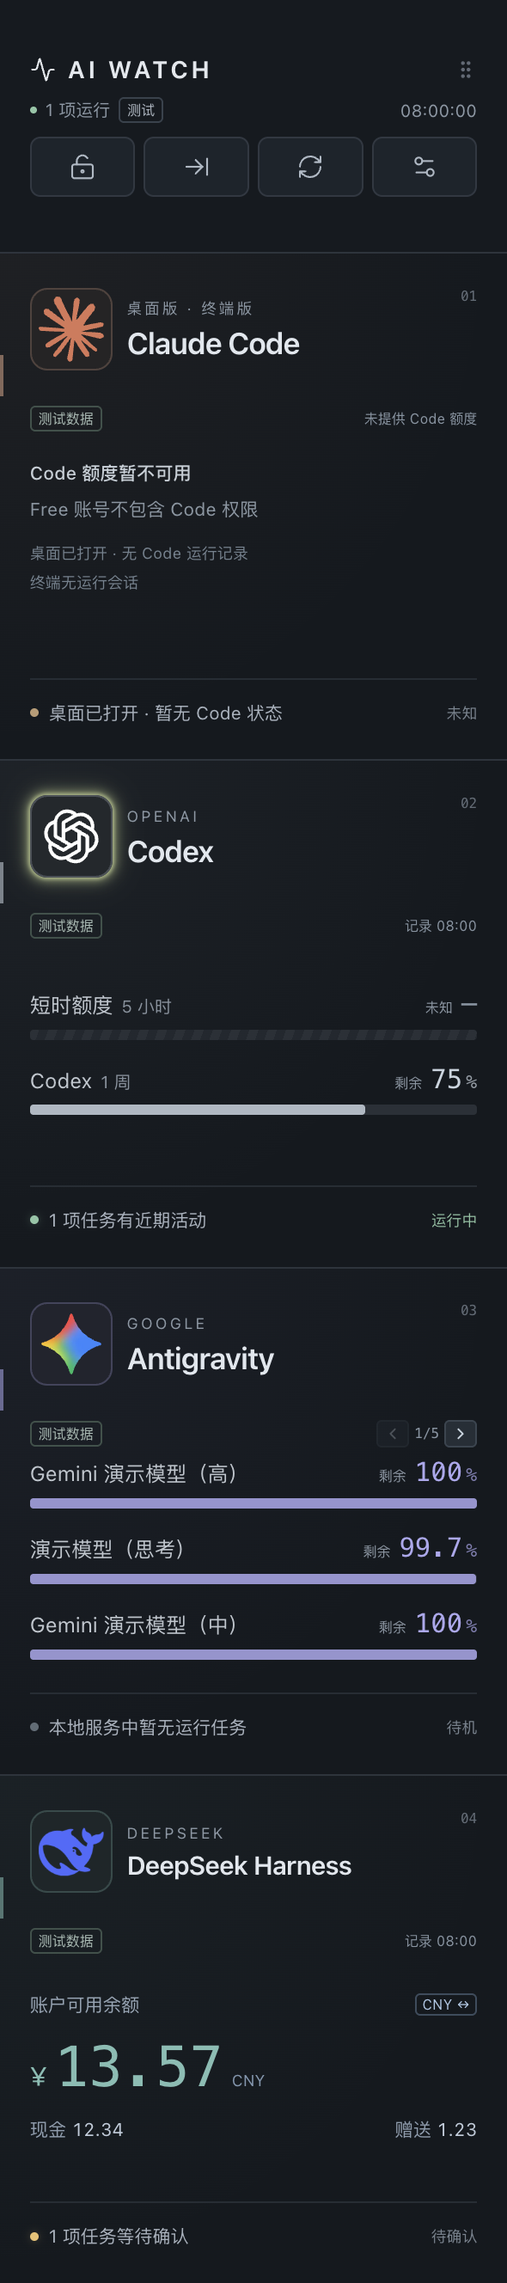
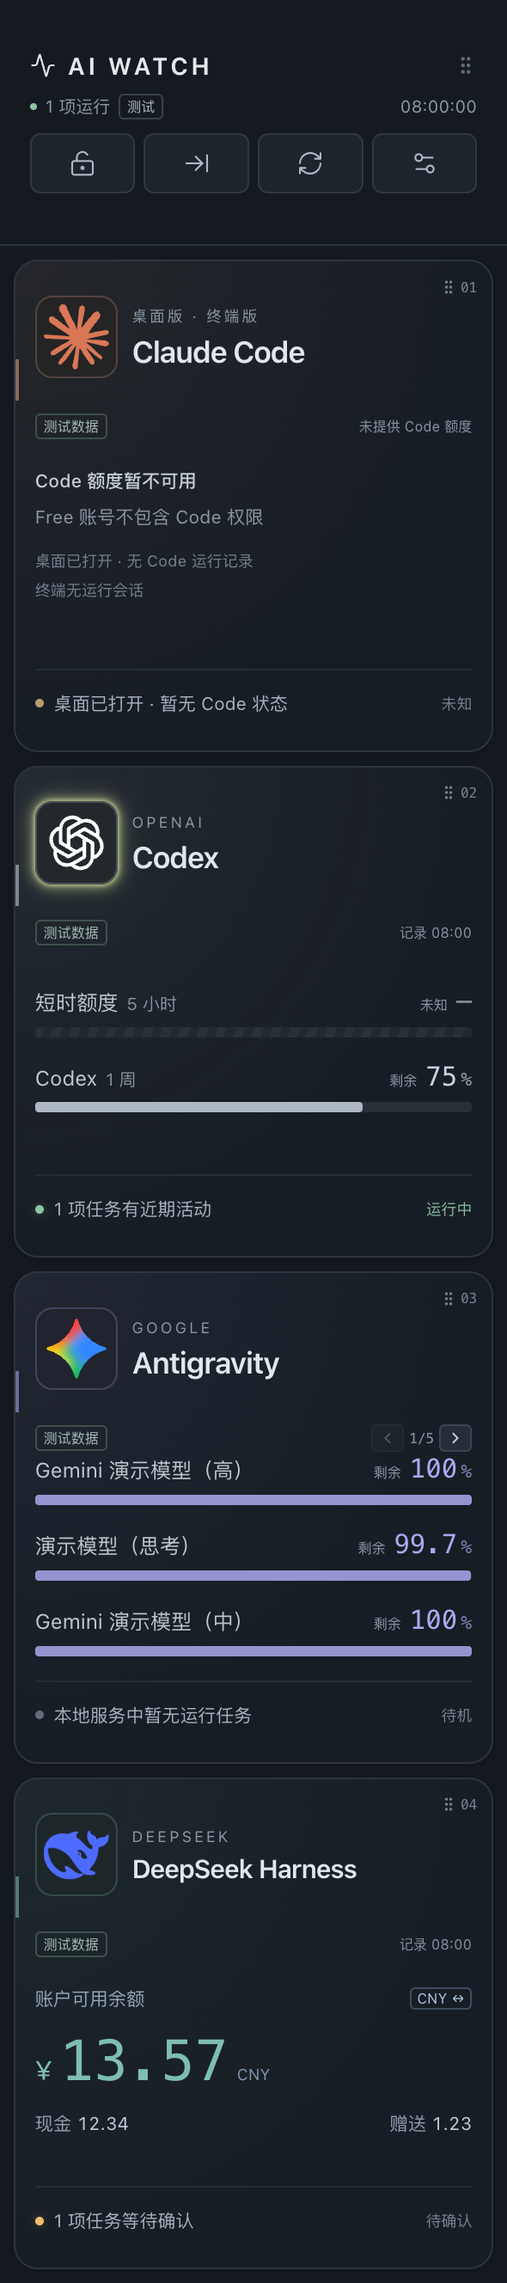
feat: add rounded cards and persistent long-press sorting

diff --git a/src/App.tsx b/src/App.tsx
@@ -1,7 +1,8 @@
-import { useEffect, useMemo, useRef, useState, type CSSProperties } from 'react';
+import { useEffect, useMemo, useRef, useState, type CSSProperties, type HTMLAttributes } from 'react';
 import { Activity, ArrowLeftToLine, ArrowRightToLine, Check, ChevronLeft, ChevronRight, GripVertical, LockKeyhole, MapPin, RefreshCw, Settings2, UnlockKeyhole, X } from 'lucide-react';
 import { providers } from './data';
 import { TestControls } from './TestControls';
+import { useCardSort } from './useCardSort';
 import { applyTestPreset, defaultTestConfig, makeTestStatus, type TestSelection } from './test-mode';
 import Big from 'big.js';
 import type { LocalStatus, LocalProviderStatus, PanelState, Preferences, Provider, ProviderId, Quota } from './types';
@@ -9,7 +10,15 @@ import type { LocalStatus, LocalProviderStatus, PanelState, Preferences, Provide
 const previewState: PanelState = {
   side: 'right', locked: false, animate: true, collapsed: false,
   desktop: false, platform: 'browser', scaleFactor: window.devicePixelRatio,
+  providerOrder: readOrder(),
 };
+function readOrder(): ProviderId[] {
+  const fallback = providers.map(provider => provider.id);
+  try {
+    const value = JSON.parse(localStorage.getItem('ai-watch:provider-order') || 'null');
+    return Array.isArray(value) && value.length === 4 && new Set(value).size === 4 && value.every(id => fallback.includes(id)) ? value : fallback;
+  } catch { return fallback; }
+}
 function readImages(): Partial<Record<ProviderId, string>> {
   try { return JSON.parse(localStorage.getItem('ai-watch:images') ?? '{}'); }
   catch { return {}; }
@@ -47,7 +56,9 @@ function BalanceCard({ local }: { local: LocalProviderStatus }) {
     </> : <div className="balance-empty"><strong>{local.connection === 'auth-required' ? '等待 Harness 登录' : local.connection === 'ready' ? '暂无钱包记录' : '余额暂不可用'}</strong><p>{local.detail}</p></div>}
   </div>;
 }
-function ProviderCard({ provider, index, image, testing = false }: { provider: Provider; index: number; image?: string; testing?: boolean }) {
+function ProviderCard({ provider, index, image, testing = false, sortProps, dragging = false }: {
+  provider: Provider; index: number; image?: string; testing?: boolean; sortProps?: HTMLAttributes<HTMLElement>; dragging?: boolean;
+}) {
   const [page, setPage] = useState(0);
   const pages = Math.max(1, Math.ceil(provider.quotas.length / 3));
   const currentPage = Math.min(page, pages - 1);
@@ -66,11 +77,12 @@ function ProviderCard({ provider, index, image, testing = false }: { provider: P
     const reset = quota.reset && local ? `重置时间 ${new Date(quota.reset).toLocaleString('zh-CN')}` : quota.reset;
     return `${quota.model} · ${quota.period}${reset ? ` · ${reset}` : ''}${quota.stale ? ` · 已过时，历史剩余 ${quota.remaining ?? '未知'}%` : ''}`;
   }
-  return <section className={`provider-card ${provider.running ? 'is-running' : ''}`} style={{ '--accent': provider.color } as CSSProperties} aria-label={`${provider.name} 面板`} data-attention={local?.id === 'codex' && local.activity === 'waiting'}>
+  return <section {...sortProps} className={`provider-card ${provider.running ? 'is-running' : ''} ${dragging ? 'is-dragging' : ''}`} style={{ '--accent': provider.color, ...sortProps?.style } as CSSProperties}
+    aria-label={`${provider.name} 面板`} data-provider={provider.id} data-attention={local?.id === 'codex' && local.activity === 'waiting'} tabIndex={0} aria-describedby="card-sort-help" onDragStart={event => event.preventDefault()}>
     <div className="card-heading">
       <Avatar provider={provider} image={image} monitor />
       <div className="identity"><span className="eyebrow">{local?.id === 'claude' ? '桌面版 · 终端版' : provider.subtitle}</span><h2>{provider.name}</h2></div>
-      <span className="card-index">0{index + 1}</span>
+      <span className="card-index" title="长按卡片拖动排序"><GripVertical size={10} aria-hidden="true" /><span>0{index + 1}</span></span>
     </div>
     <div className="quota-area">
       <div className="quota-tools">
@@ -109,11 +121,12 @@ export default function App() {
   const [settingsOpen, setSettingsOpen] = useState(false);
   const [refreshing, setRefreshing] = useState(false);
   const [notice, setNotice] = useState('');
+  const [orderSaving, setOrderSaving] = useState(false);
   const [draft, setDraft] = useState<Preferences>(previewState);
   const modal = useRef<HTMLDialogElement>(null);
   const fileInput = useRef<HTMLInputElement>(null);
   const targetImage = useRef<ProviderId>('claude');
-  const visibleProviders = providers.map((provider) => {
+  const visibleProviders = state.providerOrder.map(id => providers.find(provider => provider.id === id)!).map((provider) => {
     if (!state.desktop && !testMode) return provider;
     const local = displayStatus?.[provider.id];
     return { ...provider, running: local?.activity === 'running', task: local?.task || '正在读取本地状态',
@@ -123,6 +136,19 @@ export default function App() {
   });
   const activeTasks = providers.reduce((total, provider) => total + (displayStatus?.[provider.id].activeTasks || 0), 0);
   const refreshTime = displayStatus?.sampledAt ? new Date(displayStatus.sampledAt).toLocaleTimeString('zh-CN', { hour: '2-digit', minute: '2-digit', second: '2-digit' }) : '读取中';
+  const sorting = useCardSort(state.providerOrder, order => { void saveOrder(order); }, settingsOpen || state.collapsed || orderSaving);
+
+  async function saveOrder(order: ProviderId[]) {
+    if (orderSaving) return;
+    const previous = state.providerOrder;
+    setOrderSaving(true); setState(current => ({ ...current, providerOrder: order }));
+    try {
+      if (window.panel) setState(await window.panel.setOrder(order));
+      else localStorage.setItem('ai-watch:provider-order', JSON.stringify(order));
+      setNotice('模块顺序已保存');
+    } catch { setState(current => ({ ...current, providerOrder: previous })); setNotice('顺序保存失败，已恢复原顺序'); }
+    finally { setOrderSaving(false); }
+  }
 
   function openSettings() { setDraft({ side: state.side, locked: state.locked, animate: state.animate }); setSettingsOpen(true); }
   function toggleTestMode(enabled: boolean) {
@@ -240,7 +266,7 @@ export default function App() {
       </div>)}</div>
       <button className={`rail-lock ${state.locked ? 'selected' : ''}`} title="锁定窗口" aria-label="锁定窗口" aria-pressed={state.locked} onClick={toggleLock}>{state.locked ? <LockKeyhole size={15} /> : <UnlockKeyhole size={15} />}</button>
       {testMode ? <button className="rail-demo test-badge" aria-label="测试模式设置" onClick={async () => { await collapse(false); openSettings(); }}>测试</button> : <span className="rail-demo">{state.desktop ? '本地' : '演示'}</span>}
-    </aside> : <div className="panel-regions">
+    </aside> : <div className={`panel-regions ${sorting.sorting ? 'is-sorting' : ''}`}>
       <header className="control-region">
         <div className="brand-line"><div className="brand"><Activity size={15} strokeWidth={1.7} /><h1>AI WATCH</h1></div><GripVertical size={13} className="drag-hint" /></div>
         <div className="overview" title={testMode ? '当前运行数、任务、额度与余额均为手动选择的测试数据。' : '运行数只统计本地接入且有运行证据的任务；未知状态和演示卡片不计入。'}><span><span className={`tiny-dot ${activeTasks ? 'active' : ''}`} />{state.desktop || testMode ? `${activeTasks} 项运行` : '界面预览'} {testMode ? <button className="demo-tag test-badge" aria-label="测试模式设置" onClick={openSettings}>测试模式</button> : <span className="demo-tag">{localStatus?.isTestData ? '测试' : state.desktop ? '本地' : '演示'}</span>}</span><time>{state.desktop || testMode ? refreshTime : '演示数据'}</time></div>
@@ -251,8 +277,16 @@ export default function App() {
           <button aria-label="打开配置" title="配置面板" onClick={openSettings}><Settings2 /></button>
         </nav>
       </header>
-      {visibleProviders.map((provider, index) => <ProviderCard key={`${testMode ? 'test' : 'live'}:${provider.id}`} provider={provider} index={index} image={images[provider.id]} testing={Boolean(displayStatus?.isTestData)} />)}
+      {visibleProviders.map((provider, index) => <ProviderCard key={`${testMode ? 'test' : 'live'}:${provider.id}`} provider={provider} index={index} image={images[provider.id]} testing={Boolean(displayStatus?.isTestData)} dragging={sorting.activeId === provider.id}
+        sortProps={{ style: sorting.style(provider.id), onPointerDown: event => sorting.start(event, provider.id), onKeyDown: event => {
+          if (event.target !== event.currentTarget || !event.altKey || !['ArrowUp', 'ArrowDown'].includes(event.key) || sorting.sorting) return;
+          event.preventDefault();
+          const next = [...state.providerOrder], target = Math.max(0, Math.min(3, index + (event.key === 'ArrowUp' ? -1 : 1)));
+          if (target !== index) { next.splice(index, 1); next.splice(target, 0, provider.id); void saveOrder(next); }
+        } }} />)}
     </div>}
+    <span id="card-sort-help" className="sr-only">长按卡片约半秒后上下拖动，松开保存顺序；Escape 取消。键盘聚焦卡片后可按 Alt 加上下方向键排序。</span>
+    {sorting.sorting && <div className="sort-hint" role="status">拖动排序 · 第 {(sorting.target ?? 0) + 1} 位 · 松开保存</div>}
     <dialog ref={modal} className="settings-dialog" aria-labelledby="settings-title" onCancel={() => setSettingsOpen(false)}>
       <div className="settings-heading"><div><span className="eyebrow">PREFERENCES</span><h2 id="settings-title">面板配置</h2></div><button className="icon-button" aria-label="关闭配置" onClick={() => setSettingsOpen(false)}><X size={18} /></button></div>
       <div className="settings-content">
@@ -269,7 +303,7 @@ export default function App() {
         <div className="settings-section"><h3>助手图片</h3><p>透明图片效果更好</p>{providers.map((provider) => <div className="image-option" key={provider.id} style={{ '--accent': provider.color } as CSSProperties}>
           <Avatar provider={provider} image={images[provider.id]} /><span>{provider.name}</span><button onClick={() => chooseImage(provider.id)} aria-label={`替换 ${provider.name} 图片`}>替换</button>
         </div>)}</div>
-        <div className="settings-note"><span className="note-title">本地状态 · v0.6.1</span><p>Codex 读取本地额度与任务记录；Antigravity 优先读取本地服务，每 5 秒检查任务，每 30 秒读取额度。刷新按钮会重新读取。运行时 LOGO 显示对应颜色的光晕，Codex 待回答或待授权时优先显示红色。</p><p>DeepSeek 使用本设备 Harness 已有登录态查询余额，每分钟更新。换设备后先在 Harness 登录，面板自动识别，无需复制 Key。账号切换或退出后会清除旧余额。</p><p>Claude 自动发现桌面与终端会话，读取桌面用量历史；Free 账号不包含 Code 权限，缺少额度时明确显示不可用。DeepSeek 结合会话记录与进程识别任务活动，黄色表示等待确认。浏览器预览全部使用示例。</p>
+        <div className="settings-note"><span className="note-title">本地状态 · v0.7</span><p>Codex 读取本地额度与任务记录；Antigravity 优先读取本地服务，每 5 秒检查任务，每 30 秒读取额度。刷新按钮会重新读取。运行时 LOGO 显示对应颜色的光晕，Codex 待回答或待授权时优先显示红色。</p><p>DeepSeek 使用本设备 Harness 已有登录态查询余额，每分钟更新。换设备后先在 Harness 登录，面板自动识别，无需复制 Key。账号切换或退出后会清除旧余额。</p><p>Claude 自动发现桌面与终端会话，读取桌面用量历史；Free 账号不包含 Code 权限，缺少额度时明确显示不可用。DeepSeek 结合会话记录与进程识别任务活动，黄色表示等待确认。浏览器预览全部使用示例。</p>
           {displayStatus && <>{(['claude', 'codex', 'antigravity', 'deepseek'] as const).map((id) => <p key={id}><b>{id === 'claude' ? 'Claude Code' : id === 'codex' ? 'Codex' : id === 'deepseek' ? 'DeepSeek Harness' : 'Antigravity'}</b><br />{displayStatus[id].detail}<br />{displayStatus[id].activityDetail && <>{displayStatus[id].activityDetail}<br /></>}{displayStatus[id].observedAt ? `记录时间：${new Date(displayStatus[id].observedAt!).toLocaleString('zh-CN')}` : '尚无可用记录'}</p>)}</>}
           <p>{state.desktop ? `桌面版 · 显示缩放 ${state.scaleFactor}×` : '浏览器预览 · 窗口操作请使用桌面版'}</p></div>
       </div>

diff --git a/src/useCardSort.ts b/src/useCardSort.ts
@@ -1,0 +1,86 @@
+import { useEffect, useRef, useState, type CSSProperties, type PointerEvent as ReactPointerEvent } from 'react';
+import type { ProviderId } from './types';
+
+type Gesture = {
+  id: ProviderId; pointerId: number; x: number; y: number; root: HTMLElement;
+  order: ProviderId[]; rects: { top: number; height: number }[]; timer: number;
+  active: boolean; offset: number; target: number;
+};
+function movedOrder(order: ProviderId[], id: ProviderId, target: number) {
+  const next = order.filter(value => value !== id); next.splice(target, 0, id); return next;
+}
+export function useCardSort(order: ProviderId[], onCommit: (order: ProviderId[]) => void, disabled: boolean) {
+  const gesture = useRef<Gesture | null>(null);
+  const latest = useRef({ order, onCommit, disabled }); latest.current = { order, onCommit, disabled };
+  const [drag, setDrag] = useState<Gesture | null>(null);
+  const finishRef = useRef<(commit: boolean) => void>(() => {});
+
+  useEffect(() => {
+    const finish = (commit: boolean) => {
+      const g = gesture.current; if (!g) return;
+      gesture.current = null; clearTimeout(g.timer); setDrag(null);
+      if (g.root.hasPointerCapture(g.pointerId)) g.root.releasePointerCapture(g.pointerId);
+      if (commit && g.active && g.target !== g.order.indexOf(g.id)) latest.current.onCommit(movedOrder(g.order, g.id, g.target));
+    };
+    finishRef.current = finish;
+    const move = (event: PointerEvent) => {
+      const g = gesture.current; if (!g || event.pointerId !== g.pointerId) return;
+      if (!g.active) {
+        if (Math.hypot(event.clientX - g.x, event.clientY - g.y) > 8) finish(false);
+        return;
+      }
+      event.preventDefault();
+      const from = g.order.indexOf(g.id), rect = g.rects[from];
+      g.offset = Math.max(g.rects[0].top - rect.top, Math.min(g.rects[3].top - rect.top, event.clientY - g.y));
+      const center = rect.top + rect.height / 2 + g.offset;
+      g.target = g.rects.reduce((nearest, slot, index) => Math.abs(slot.top + slot.height / 2 - center)
+        < Math.abs(g.rects[nearest].top + g.rects[nearest].height / 2 - center) ? index : nearest, 0);
+      setDrag({ ...g });
+    };
+    const up = (event: PointerEvent) => { if (event.pointerId === gesture.current?.pointerId) finish(true); };
+    const cancelPointer = (event: PointerEvent) => { if (event.pointerId === gesture.current?.pointerId) finish(false); };
+    const lostCapture = (event: PointerEvent) => {
+      const g = gesture.current;
+      if (g && event.pointerId === g.pointerId && !g.root.hasPointerCapture(g.pointerId)) finish(false);
+    };
+    const cancel = () => finish(false);
+    const key = (event: KeyboardEvent) => { if (event.key === 'Escape' && gesture.current) { event.preventDefault(); finish(false); } };
+    window.addEventListener('pointermove', move, { passive: false });
+    window.addEventListener('pointerup', up);
+    window.addEventListener('pointercancel', cancelPointer);
+    window.addEventListener('lostpointercapture', lostCapture);
+    window.addEventListener('blur', cancel); window.addEventListener('resize', cancel); window.addEventListener('keydown', key);
+    return () => {
+      finish(false); window.removeEventListener('pointermove', move); window.removeEventListener('pointerup', up);
+      window.removeEventListener('pointercancel', cancelPointer); window.removeEventListener('lostpointercapture', lostCapture);
+      window.removeEventListener('blur', cancel); window.removeEventListener('resize', cancel); window.removeEventListener('keydown', key);
+    };
+  }, []);
+  useEffect(() => { if (disabled) finishRef.current(false); }, [disabled]);
+
+  function start(event: ReactPointerEvent<HTMLElement>, id: ProviderId) {
+    if (latest.current.disabled || gesture.current || !event.isPrimary || event.button !== 0
+      || (event.target as Element).closest('button, input, select, textarea, a, label, summary')) return;
+    const root = event.currentTarget.parentElement;
+    if (!root) return;
+    const cards = [...root.querySelectorAll<HTMLElement>(':scope > .provider-card')];
+    if (cards.length !== 4) return;
+    event.preventDefault();
+    const g: Gesture = { id, pointerId: event.pointerId, x: event.clientX, y: event.clientY, root,
+      order: [...latest.current.order], rects: cards.map(card => { const r = card.getBoundingClientRect(); return { top: r.top, height: r.height }; }),
+      timer: 0, active: false, offset: 0, target: latest.current.order.indexOf(id) };
+    gesture.current = g;
+    try { root.setPointerCapture(event.pointerId); } catch { gesture.current = null; return; }
+    g.timer = window.setTimeout(() => {
+      if (gesture.current !== g || latest.current.disabled) return;
+      g.active = true; setDrag({ ...g });
+    }, 450);
+  }
+  function style(id: ProviderId): CSSProperties {
+    if (!drag) return {};
+    const from = drag.order.indexOf(id), to = movedOrder(drag.order, drag.id, drag.target).indexOf(id);
+    const offset = id === drag.id ? drag.offset : drag.rects[to].top - drag.rects[from].top;
+    return { transform: `translate3d(0, ${offset}px, 0)${id === drag.id ? ' scale(1.01)' : ''}` };
+  }
+  return { start, style, activeId: drag?.id, target: drag?.target, sorting: Boolean(drag) };
+}

diff --git a/src/styles.css b/src/styles.css
@@ -9,7 +9,7 @@ button:focus-visible, input:focus-visible, select:focus-visible { outline: 2px s
 button:disabled { cursor: wait; }
 button, input, select, textarea, label, summary { -webkit-app-region: no-drag; }
 .panel { height: 100%; overflow: hidden; position: relative; background: var(--surface); }
-.panel-regions { height: 100%; display: grid; grid-template-rows: .5fr repeat(4, 1fr); }
+.panel-regions { height: 100%; display: grid; grid-template-rows: .5fr repeat(4, 1fr); gap: 8px; padding-bottom: 8px; }
 .control-region { min-height: 0; display: flex; flex-direction: column; justify-content: center; padding: 9px var(--gutter); gap: 8px; border-bottom: 1px solid var(--line); background: #151a20; -webkit-app-region: drag; }
 .brand-line { display: flex; align-items: center; justify-content: space-between; }
 .brand { display: flex; align-items: center; gap: 7px; color: #e3e8ed; }
@@ -26,8 +26,13 @@ h1 { font-size: clamp(10px, 4.8vw, 14px); font-weight: 650; letter-spacing: 1.9p
 .toolbar svg { width: clamp(12px, 5.6vw, 16px); height: clamp(12px, 5.6vw, 16px); stroke-width: 1.6; }
 .toolbar button:hover, .icon-button:hover { color: #f2f5f7; background: #2c3540; }
 .toolbar button.selected, .rail-lock.selected { background: #293d37; color: #95ccac; border-color: #456251; }
-.provider-card { min-height: 0; position: relative; overflow: hidden; padding: clamp(9px, 1.5vh, 22px) var(--gutter); border-bottom: 1px solid var(--line); display: flex; flex-direction: column; gap: clamp(9px, 1.55vh, 20px); background: radial-gradient(ellipse at 0 0, color-mix(in srgb, var(--accent) 5%, transparent), transparent 70%); }
-.provider-card:last-child { border-bottom: none; }
+.provider-card { min-height: 0; min-width: 0; position: relative; overflow: hidden; margin-inline: 8px; padding: clamp(9px, 1.5vh, 22px) max(10px, calc(var(--gutter) - 6px)); border: 1px solid var(--line); border-radius: 14px; display: flex; flex-direction: column; gap: clamp(9px, 1.55vh, 20px); background: radial-gradient(ellipse at 0 0, color-mix(in srgb, var(--accent) 7%, transparent), transparent 70%), #171d24; box-shadow: 0 2px 5px #0002; cursor: grab; touch-action: none; user-select: none; -webkit-app-region: no-drag; }
+.provider-card:focus-visible { outline: 2px solid #adbcca; outline-offset: -3px; }
+.is-sorting .provider-card { transition: transform .16s ease; }
+.is-sorting .provider-card.is-dragging { transition: none; z-index: 4; cursor: grabbing; border-color: var(--accent); box-shadow: 0 8px 24px #0009, 0 0 0 1px color-mix(in srgb, var(--accent) 40%, transparent); }
+.is-sorting { cursor: grabbing; }
+.sort-hint { position: absolute; z-index: 5; bottom: 12px; left: 16px; right: 16px; padding: 8px; border: 1px solid #596b7c; border-radius: 6px; background: #253440f5; color: #dce7ee; font-size: 10px; text-align: center; pointer-events: none; }
+.sr-only { position: absolute; width: 1px; height: 1px; overflow: hidden; clip-path: inset(50%); white-space: nowrap; pointer-events: none; }
 .provider-card::before { position: absolute; top: 20%; left: 0; height: 24px; width: 2px; background: var(--accent); opacity: .55; content: ''; }
 .card-heading { display: flex; align-items: center; gap: clamp(6px, 2.8vw, 10px); position: relative; }
 .avatar { width: clamp(28px, 16.3vw, 52px); height: clamp(28px, 16.3vw, 52px); flex-shrink: 0; position: relative; isolation: isolate; border-radius: 10px; --halo-color: #d97757; }
@@ -55,8 +60,8 @@ h1 { font-size: clamp(10px, 4.8vw, 14px); font-weight: 650; letter-spacing: 1.9p
 .identity { min-width: 0; }
 .eyebrow { display: block; color: var(--muted); font-size: clamp(6px, 3vw, 9px); letter-spacing: 1.45px; line-height: 1.7; }
 .identity h2 { font-size: clamp(10px, 5.9vw, 18px); line-height: 1.3; margin: 1px 0 0; font-weight: 600; letter-spacing: -.35px; }
-.provider-card:last-child .identity h2 { font-size: clamp(9px, 5.1vw, 16px); }
-.card-index { position: absolute; right: 0; top: 0; font: 8px ui-monospace, monospace; color: #616b76; }
+.provider-card[data-provider="deepseek"] .identity h2 { font-size: clamp(9px, 5.1vw, 16px); }
+.card-index { position: absolute; right: -3px; top: -10px; display: flex; align-items: center; gap: 2px; font: 8px ui-monospace, monospace; color: #74808c; }
 .quota-area { flex: 1; min-height: 0; display: flex; flex-direction: column; gap: 7px; }
 .quota-tools { display: flex; align-items: center; justify-content: space-between; gap: 4px; min-height: 16px; font-size: 9px; color: #8795a3; }
 .source-tag { font-size: 8px; border: 1px solid #38424d; border-radius: 3px; padding: 1px 4px; white-space: nowrap; }
@@ -175,7 +180,8 @@ legend { margin-bottom: 10px; color: #b7c3ce; font-size: 12px; }
   .provider-card { gap: 6px; padding-block: 7px; }
   .card-heading .avatar { width: clamp(24px, 5vh, 34px); height: clamp(24px, 5vh, 34px); border-radius: 7px; }
   .identity h2 { font-size: clamp(10px, 4.5vw, 13px); }
-  .provider-card:last-child .identity h2 { font-size: clamp(9px, 4.3vw, 12px); }
+  .provider-card[data-provider="deepseek"] .identity h2 { font-size: clamp(9px, 4.3vw, 12px); }
+  .card-index { top: -3px; font-size: 7px; }
   .quota-list { gap: 4px; }
   .quota-area { gap: 3px; }
   .balance-content { gap: 3px; }

diff --git a/src/types.ts b/src/types.ts
@@ -2,6 +2,7 @@ export type ProviderId = 'claude' | 'codex' | 'antigravity' | 'deepseek';
 export type Preferences = { side: 'left' | 'right'; locked: boolean; animate: boolean };
 export type PanelState = Preferences & {
   collapsed: boolean; desktop: boolean; platform: string; scaleFactor: number;
+  providerOrder: ProviderId[];
   bounds?: { x: number; y: number; width: number; height: number };
 };
 export type Quota = { model: string; period: string; remaining: number | null; reset: string; stale?: boolean };
@@ -31,6 +32,7 @@ declare global {
       setLocked(locked: boolean): Promise<PanelState>;
       setCollapsed(collapsed: boolean): Promise<PanelState>;
       configure(preferences: Preferences): Promise<PanelState>;
+      setOrder(order: ProviderId[]): Promise<PanelState>;
       dock(): Promise<PanelState>;
       chooseImage(provider: ProviderId): Promise<string | null>;
       quit(): Promise<void>;

diff --git a/docs/QA.md b/docs/QA.md
@@ -1,14 +1,19 @@
-# v0.6.1 验收记录
+# v0.7 验收记录
 
-验收日期：2026-10-02。平台：macOS / Apple Silicon。以下保留既有版本的接入与操作记录。v0.6.1 修复原生鼠标命中问题；本次重新构建、执行测试模式 UI 回归，并在打包应用中用普通鼠标坐标点击验证开关与文字标签。程序化点击和原生鼠标命中分别记录。
+验收日期：2026-10-02。平台：macOS / Apple Silicon。以下保留既有版本的接入与操作记录。v0.7 新增圆角留边、长按排序、取消与持久化检查；程序化指针交互和原生鼠标命中分别验收。
 
 | 检查 | 结果 |
 | --- | --- |
 | TypeScript 检查与生产构建 | 通过 |
-| 窗口与状态单元检查 | 38 项通过 |
+| 窗口与状态单元检查 | 39 项通过，包含旧偏好迁移与无效排序拒绝 |
 | Electron 原生窗口启动 | 通过 |
-| 设置页鼠标命中 | v0.6 普通鼠标点击测试开关无响应已复现；v0.6.1 在相同位置点击可开启，点击文字标签可关闭，均由原生鼠标坐标操作确认 |
+| 设置页鼠标命中 | v0.6 普通鼠标点击测试开关无响应已复现；v0.6.1 修复后可开启与关闭；v0.7 打包版再次用普通鼠标坐标点击配置按钮、测试开关和文字标签通过 |
 | 设置页拖动区域 | 打开设置后底层标题栏、设置页及开关均为 no-drag；关闭设置后标题栏恢复 drag，自动检查通过 |
+| 圆角与留边 | 四张工具卡片圆角为 14px；左右边距、模块间距、顶部控制栏下方及底部留边均为 8px 逻辑像素，桌面尺寸测量通过 |
+| 长按排序 | 指针按住 450ms 后进入拖动，首张移至末尾成功；顶部控制栏与窗口位置保持不变 |
+| 排序取消与按钮 | 快速滑动不排序、Esc 取消通过；翻页与币种切换保持可点击，排序后当前页与币种保留 |
+| 顺序保存 | 收起栏与测试模式同步顺序，修改其他配置不重置；同一测试配置冷启动后顺序保留；非法顺序被拒绝且不缺失卡片 |
+| 键盘排序 | 聚焦卡片后 Alt + 上方向键调整位置通过 |
 | 手动测试入口 | 默认关闭；开启后提供四种快捷场景与八个独立任务 / 数据选择器，配置页无横向溢出 |
 | 测试场景 | 运行、待机、Codex 待回答 / 待授权、等待与并行运行、其他工具等待、未知及离线通过 UI 检查 |
 | 测试额度与余额 | 12.5%、0%、100%、未知无填充、过时无填充、Claude Free，Harness 零值 / 小额 / 历史 / 未登录 / 未知 / 失败均通过 |
@@ -18,7 +23,7 @@
 | 测试窗口与动画 | 收起至 46 像素后保留四个运行光晕，窄栏测试入口可展开并打开配置；关闭动画后光晕静态显示 |
 | 打包版测试开关 | v0.6 程序化操作验证过场景、查看面板与恢复；v0.6.1 补充普通鼠标的开关和文字点击验证，关闭后恢复本地监看 |
 | 原生窗口尺寸 | 约 296 × 1330 逻辑像素，2× HiDPI；可用高度随系统界面变化，高宽比误差在整数像素取整范围内 |
-| 默认停靠 / 五区比例 | 可用高度占满，右边缘对齐；0.5 : 1 : 1 : 1 : 1 |
+| 默认停靠 / 五区比例 | 可用高度占满，右边缘对齐；扣除间距后各区域为 0.5 : 1 : 1 : 1 : 1 |
 | 四张助手图片 / 首屏额度 | 用户提供的三张 SVG 与一张 ICO 加载正常，合成检查为 Claude 缺额度说明、5 行额度及 1 张余额卡片 |
 | 内容溢出 / 标题、额度、状态重叠 | 原生尺寸下均无 |
 | Claude 本机接入 | 检测到桌面应用，用量历史最新记录没有额度；界面显示 Code 额度不可用，无终端运行会话，不显示演示数值 |
@@ -51,11 +56,11 @@
 | Harness 文件与 HTTPS | 拒绝不支持来源、错误格式、YAML 别名、重复字段、超大文件及宽松权限；固定官方目标，拒绝重定向并限制响应和超时 |
 | 凭证隔离 | 测试确认令牌、令牌摘要、用户路径及身份字段不进入界面状态；读取前后 Harness 文件不变 |
 | 安全隔离 | renderer 保持 sandbox、contextIsolation，关闭 nodeIntegration；IPC 校验发送者 |
-| macOS .app 打包与重启 | v0.6.1 打包与启动通过，Apple Silicon，未签名 / 未公证；启动后连接本机服务并支持手动测试模式 |
+| macOS .app 打包与重启 | v0.7 打包与启动通过，Apple Silicon，未签名 / 未公证；圆角卡片显示正常，启动后连接本机服务并支持手动测试模式 |
 
-截图：[五区面板](screenshots/panel.png)、[运行光晕](screenshots/glow-running.png)、[Codex 红灯](screenshots/glow-attention.png)、[手动测试设置](screenshots/test-settings.png)。文档截图仅包含合成测试 UI，标有“测试”；不包含真实账户额度、桌面、个人文件、账号或本机路径。本机读取检查的截图保存在忽略目录，不同步到仓库。
+截图：[五区面板](screenshots/panel.png)、[运行光晕](screenshots/glow-running.png)、[Codex 红灯](screenshots/glow-attention.png)、[手动测试设置](screenshots/test-settings.png)、[卡片拖动中](screenshots/card-sorting.png)。文档截图仅包含合成测试 UI，标有“测试”；不包含真实账户额度、桌面、个人文件、账号或本机路径。本机读取检查的截图保存在忽略目录，不同步到仓库。
 
-v0.1 已检查锁定与解锁、46 像素收起与恢复、左右停靠、动画与配置、图片选择入口及主要控制按钮。v0.2 已检查本地接入、刷新与分页。v0.3 检查 Harness 余额及设备间登录发现。v0.4 重点检查 Claude 双入口与 Free 兼容显示、Harness 活动及降级情况；保留既有窗口能力。v0.5 验证 LOGO 呼吸光晕与 Codex 提醒状态通道。v0.6 验证手动测试场景、模拟与本地状态的隔离、恢复和打包版操作。v0.6.1 补充底层拖动区域隔离和普通鼠标点击验收，修正仅依赖程序化点击造成的遗漏。
+v0.1 已检查锁定与解锁、46 像素收起与恢复、左右停靠、动画与配置、图片选择入口及主要控制按钮。v0.2 已检查本地接入、刷新与分页。v0.3 检查 Harness 余额及设备间登录发现。v0.4 重点检查 Claude 双入口与 Free 兼容显示、Harness 活动及降级情况；保留既有窗口能力。v0.5 验证 LOGO 呼吸光晕与 Codex 提醒状态通道。v0.6 验证手动测试场景、模拟与本地状态的隔离、恢复和打包版操作。v0.6.1 补充底层拖动区域隔离和普通鼠标点击验收，修正仅依赖程序化点击造成的遗漏。v0.7 通过隔离的桌面测试配置验证卡片留边、长按和取消、键盘、控件状态保留及冷启动顺序。
 
 仍需后续验收：真实用户提问 / 授权场景的完整红灯生命周期（已通过合成协议验证）、Codex 客户端协议升级、Antigravity 实际运行任务时的状态变化、服务升级与不同安装版本、跨 Spaces 和全屏窗口持续显示、手动拖动及外接显示器实机行为、自选角色图片替换、Windows 与 Linux 平台状态发现及窗口行为、Harness 在 Windows / Linux 的实际登录发现、签名与正式分发。
 
